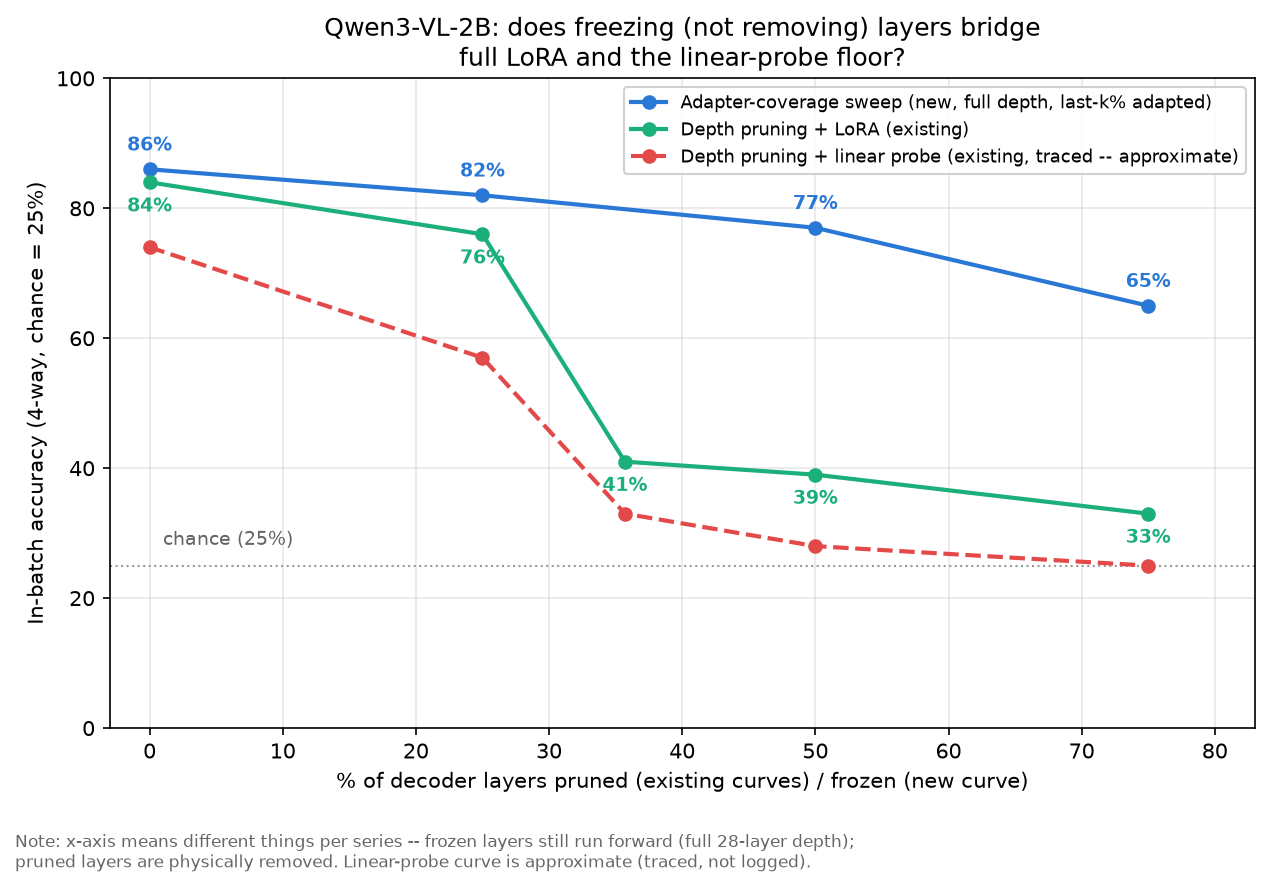
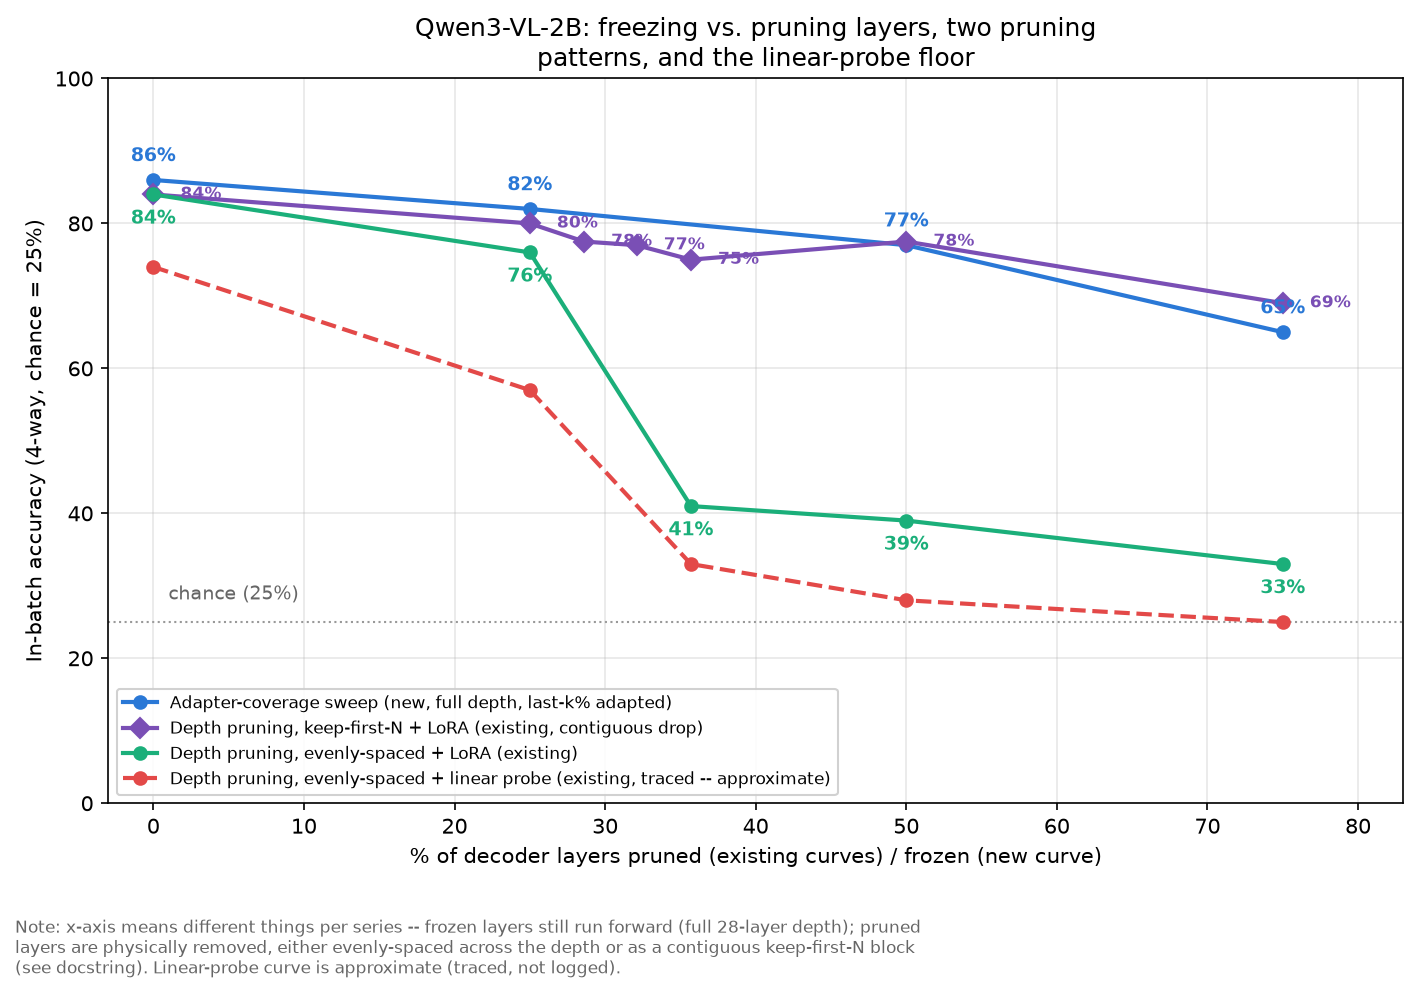
Fix mislabeled pruning curve and add the missing keep-first-N series
The comparison chart's green curve was labeled generic "depth pruning"
but is actually prune_model.py's evenly-spaced strategy (layers 0,1,2
fixed for deepstack alignment, rest evenly subsampled) -- the one that
collapses ~32-36%. Adds the actual keep-first-N + LoRA curve (purple,
from pruning_accuracy_keepfirst_only.png / logs/depth_pruning_keepfirst/
keepfirst_sweep_results.txt) which does not collapse and tracks close
to the new adapter-coverage curve.

diff --git a/plot_freeze_vs_pruning.py b/plot_freeze_vs_pruning.py
@@ -1,23 +1,34 @@
 """Compares the adapter-coverage (freeze-fraction) sweep against the existing
-depth-pruning curves. Freeze-fraction data is exact (logs/adapter_coverage_freeze/);
-the linear-probe curve is traced by eye off figures/depth_pruning/pruning_accuracy_keepfirst_only.png
+depth-pruning curves. Freeze-fraction data and the keep-first-N curve are exact
+(logs/adapter_coverage_freeze/, logs/depth_pruning_keepfirst/keepfirst_sweep_results.txt).
+The evenly-spaced-pruning + linear-probe curve is traced by eye off the source chart
 (no logged numbers survive for it) and is marked as approximate.
+
+Two distinct pruning strategies exist in this repo and must not be conflated:
+- prune_model.py: keeps layers 0,1,2 fixed (deepstack alignment), evenly subsamples
+  the rest -> an evenly-spaced/alternating drop pattern. Collapses sharply ~32-36%.
+- prune_model_generic.py --keep_idx range(N): keeps the first N contiguous layers,
+  drops the rest -> no cliff, stays flat out to 75% pruned (pruning_accuracy_keepfirst_only.png).
 """
 import matplotlib.pyplot as plt
 
 freeze = {"x": [0, 25, 50, 75], "y": [86.0, 82.0, 77.0, 65.0]}
-prune_lora = {"x": [0, 25, 35.7, 50, 75], "y": [84.0, 76.0, 41.0, 39.0, 33.0]}
-prune_probe_approx = {"x": [0, 25, 35.7, 50, 75], "y": [74.0, 57.0, 33.0, 28.0, 25.0]}
+prune_evenly_spaced_lora = {"x": [0, 25, 35.7, 50, 75], "y": [84.0, 76.0, 41.0, 39.0, 33.0]}
+prune_evenly_spaced_probe_approx = {"x": [0, 25, 35.7, 50, 75], "y": [74.0, 57.0, 33.0, 28.0, 25.0]}
+prune_keepfirst_lora = {"x": [0, 25, 28.6, 32.1, 35.7, 50, 75], "y": [84.0, 80.0, 77.5, 77.0, 75.0, 77.5, 69.0]}
 
-fig, ax = plt.subplots(figsize=(8.5, 5.5))
+fig, ax = plt.subplots(figsize=(9.5, 6))
 
 ax.plot(freeze["x"], freeze["y"], marker="o", color="#2a78d6", linewidth=2,
         markersize=6, label="Adapter-coverage sweep (new, full depth, last-k% adapted)")
-ax.plot(prune_lora["x"], prune_lora["y"], marker="o", color="#1baf7a", linewidth=2,
-        markersize=6, label="Depth pruning + LoRA (existing)")
-ax.plot(prune_probe_approx["x"], prune_probe_approx["y"], marker="o", color="#e34948",
+ax.plot(prune_keepfirst_lora["x"], prune_keepfirst_lora["y"], marker="D", color="#7a4fb5",
+        linewidth=2, markersize=7,
+        label="Depth pruning, keep-first-N + LoRA (existing, contiguous drop)")
+ax.plot(prune_evenly_spaced_lora["x"], prune_evenly_spaced_lora["y"], marker="o", color="#1baf7a", linewidth=2,
+        markersize=6, label="Depth pruning, evenly-spaced + LoRA (existing)")
+ax.plot(prune_evenly_spaced_probe_approx["x"], prune_evenly_spaced_probe_approx["y"], marker="o", color="#e34948",
         linewidth=2, markersize=6, linestyle="--",
-        label="Depth pruning + linear probe (existing, traced -- approximate)")
+        label="Depth pruning, evenly-spaced + linear probe (existing, traced -- approximate)")
 
 ax.axhline(25, color="0.6", linewidth=1, linestyle=":", zorder=0)
 ax.text(1, 27.5, "chance (25%)", va="bottom", ha="left", fontsize=9, color="0.4")
@@ -25,7 +36,10 @@ ax.text(1, 27.5, "chance (25%)", va="bottom", ha="left", fontsize=9, color="0.4"
 for x, y in zip(freeze["x"], freeze["y"]):
     ax.annotate(f"{y:.0f}%", (x, y), textcoords="offset points", xytext=(0, 9),
                 ha="center", fontsize=9, color="#2a78d6", fontweight="bold")
-for x, y in zip(prune_lora["x"], prune_lora["y"]):
+for x, y in zip(prune_keepfirst_lora["x"], prune_keepfirst_lora["y"]):
+    ax.annotate(f"{y:.0f}%", (x, y), textcoords="offset points", xytext=(13, -2),
+                ha="left", fontsize=8, color="#7a4fb5", fontweight="bold")
+for x, y in zip(prune_evenly_spaced_lora["x"], prune_evenly_spaced_lora["y"]):
     ax.annotate(f"{y:.0f}%", (x, y), textcoords="offset points", xytext=(0, -14),
                 ha="center", fontsize=9, color="#1baf7a", fontweight="bold")
 
@@ -33,13 +47,14 @@ ax.set_xlim(-3, 83)
 ax.set_ylim(0, 100)
 ax.set_xlabel("% of decoder layers pruned (existing curves) / frozen (new curve)")
 ax.set_ylabel("In-batch accuracy (4-way, chance = 25%)")
-ax.set_title("Qwen3-VL-2B: does freezing (not removing) layers bridge\nfull LoRA and the linear-probe floor?", fontsize=12)
-ax.legend(loc="upper right", fontsize=8.5, framealpha=0.9)
+ax.set_title("Qwen3-VL-2B: freezing vs. pruning layers, two pruning\npatterns, and the linear-probe floor", fontsize=12)
+ax.legend(loc="lower left", fontsize=8, framealpha=0.9)
 ax.grid(True, alpha=0.3)
 
-fig.text(0.01, -0.02,
-         "Note: x-axis means different things per series -- frozen layers still run forward (full 28-layer depth);\n"
-         "pruned layers are physically removed. Linear-probe curve is approximate (traced, not logged).",
+fig.text(0.01, -0.03,
+         "Note: x-axis means different things per series -- frozen layers still run forward (full 28-layer depth); pruned\n"
+         "layers are physically removed, either evenly-spaced across the depth or as a contiguous keep-first-N block\n"
+         "(see docstring). Linear-probe curve is approximate (traced, not logged).",
          fontsize=8, color="0.4", va="top")
 
 fig.tight_layout()
